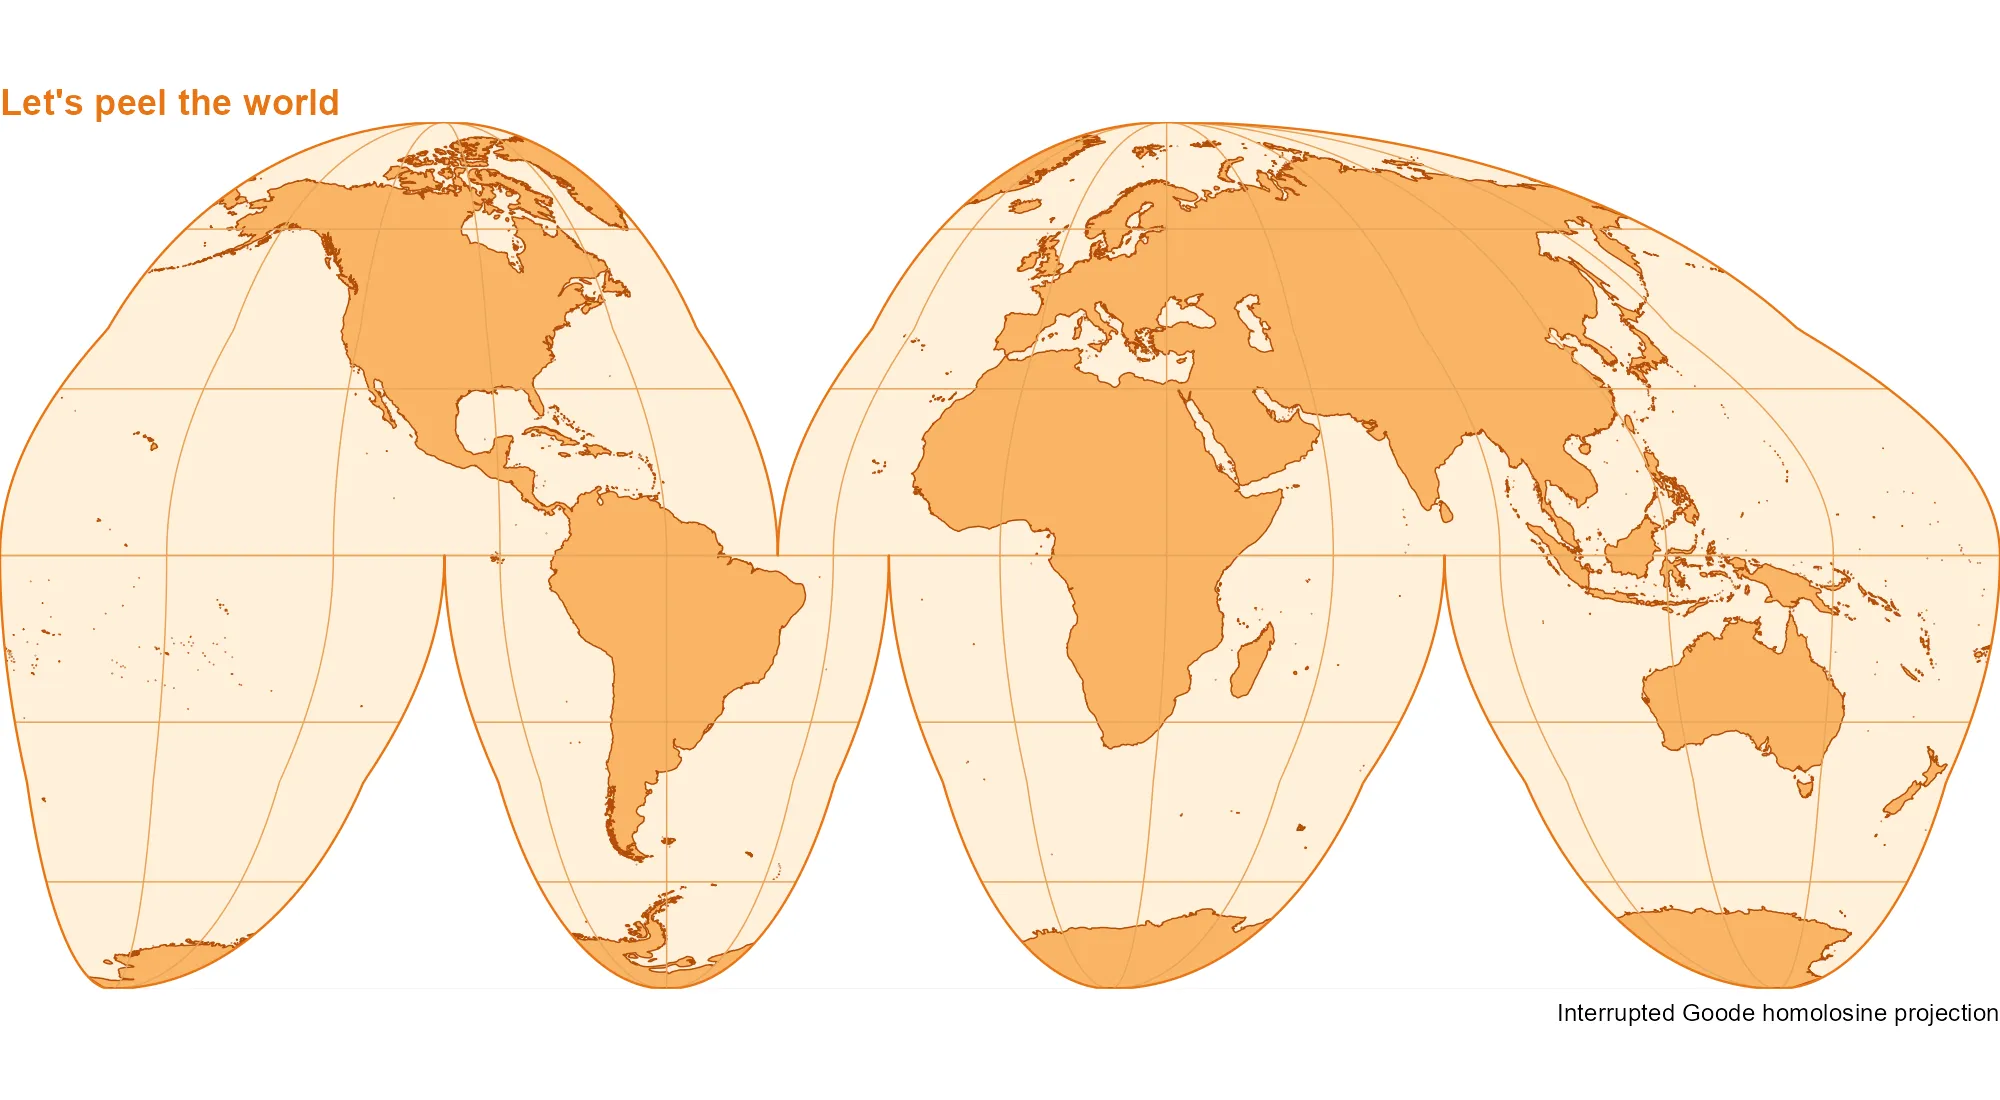
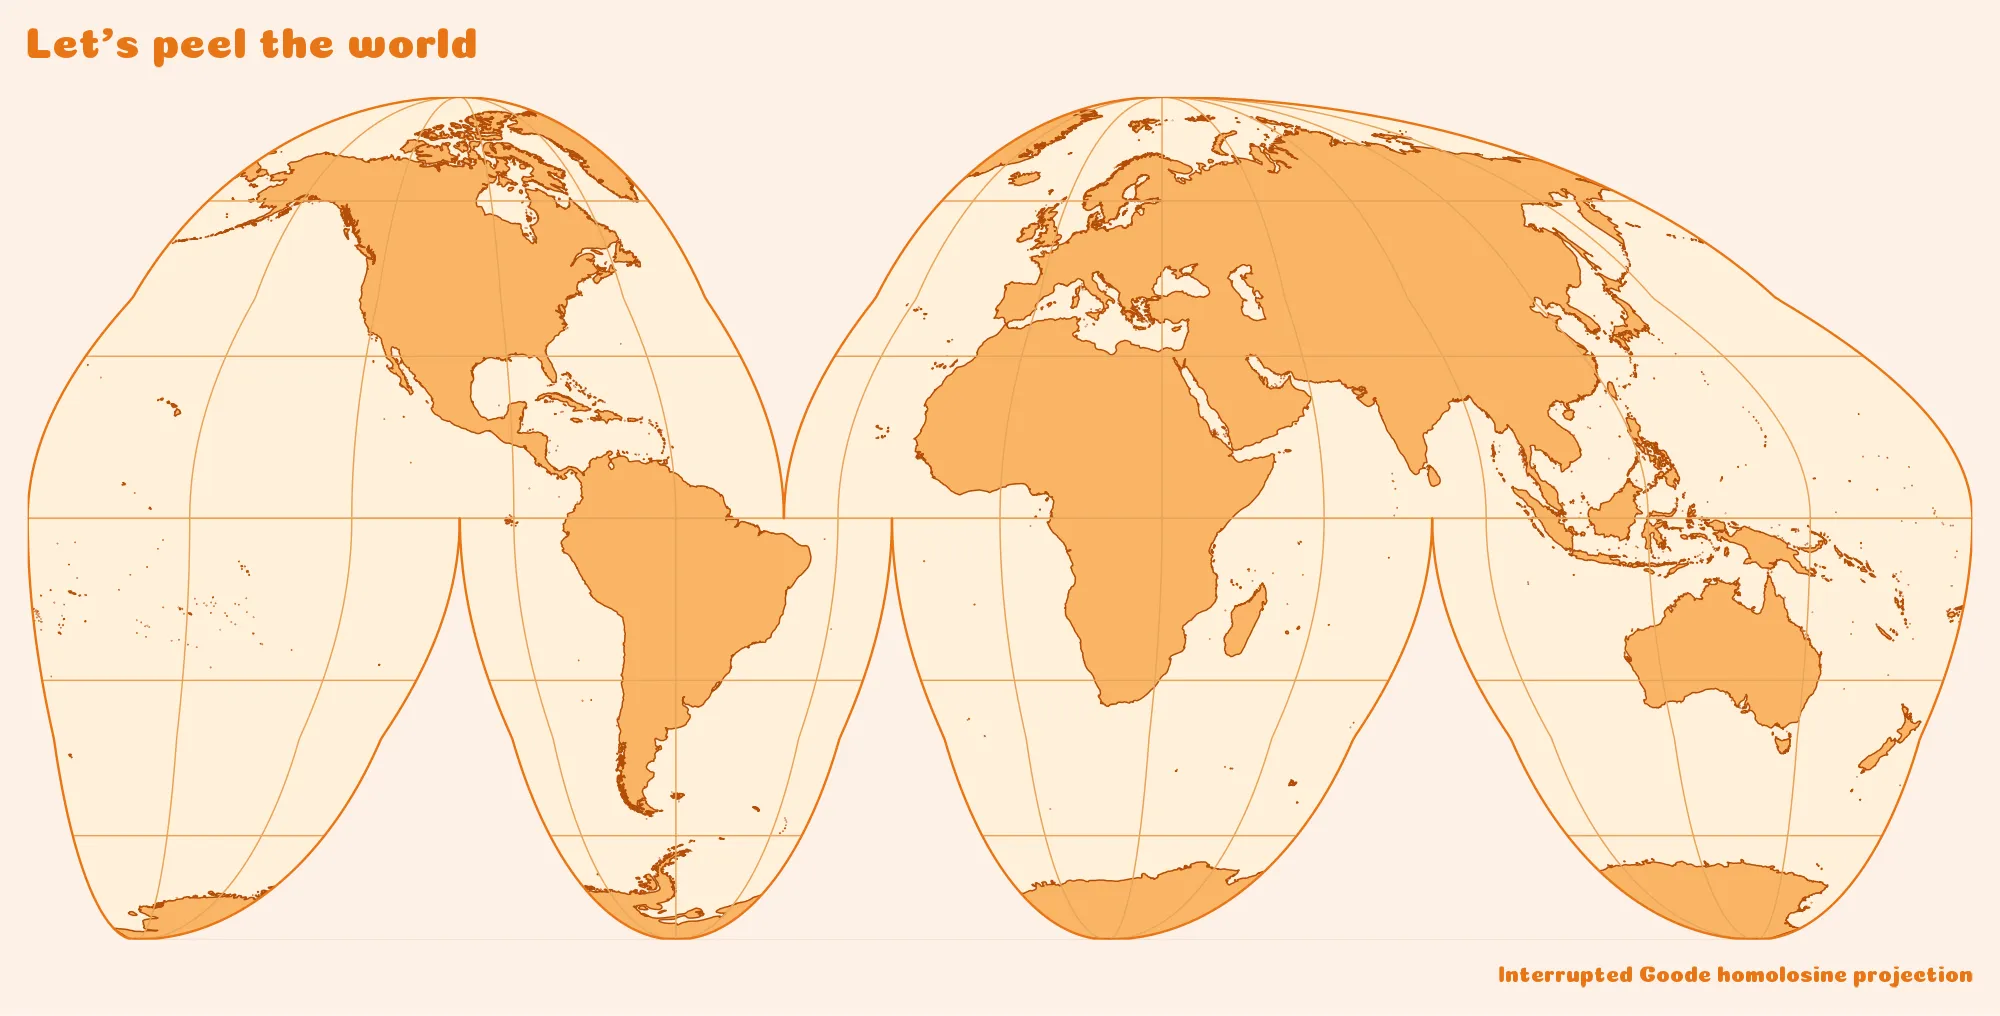
Fix img

diff --git a/collections/_posts/2026-10-24-orange-peel.md b/collections/_posts/2026-10-24-orange-peel.md
@@ -12,11 +12,14 @@ tags:
   - ggplot2
   - sf
   - giscoR
-header_img: https://dieghernan.github.io/assets/img/blog/202610_goode-map-1.webp
+header_img: "https://dieghernan.github.io/assets/img/blog/202610_goode-map-1.webp"
+og_image: "https://dieghernan.github.io/assets/img/blog/202610_goode-map-1.webp"
 og_image_width: 2000
-og_image_height: 1100
+og_image_height: 1016
 og_image_type: "image/webp"
-og_image_alt: "World map with orange coastlines and graticules in the interrupted Goode homolosine projection, resembling a flattened orange peel."
+og_image_alt: >-
+  World map with orange coastlines and graticules in the interrupted Goode
+  homolosine projection, resembling a flattened orange peel.
 output:
   md_document:
     variant: gfm
@@ -39,6 +42,7 @@ coastlines and draw the outline, following the cuts between the lobes.
 library(sf)
 library(ggplot2)
 library(giscoR)
+library(showtext)
 
 world <- gisco_get_coastal_lines(resolution = 10)
 goode_crs <- "+proj=igh"
@@ -93,11 +97,15 @@ and keeps the edges of our peel tidy.
 
 
 ``` r
+font_add_google("Coiny", family = "coiny")
+
+showtext_auto()
+
 ggplot() +
   geom_sf(data = outline, fill = "#FFF0D9", colour = NA) +
   geom_sf(data = world, fill = "#F9B566", colour = "#B34D08", linewidth = 0.25) +
   geom_sf(data = grat, fill = NA, colour = "#E8A45B", linewidth = 0.25) +
-  geom_sf(data = mask, fill = "white", colour = NA) +
+  geom_sf(data = mask, fill = "#fcf1e7", colour = NA) +
   geom_sf(data = outline, fill = NA, colour = "#E87516", linewidth = 0.4) +
   coord_sf(
     crs = goode_crs,
@@ -108,8 +116,17 @@ ggplot() +
   ) +
   theme_void() +
   theme(
-    plot.background = element_rect(fill = "white", colour = NA),
-    plot.title = element_text(color = "#E87516", face = "bold")
+    text = element_text(family = "coiny"),
+    plot.background = element_rect(fill = "#fcf1e7", colour = NA),
+    plot.title = element_text(
+      color = "#E87516", face = "bold", size = rel(3),
+      margin = margin(b = 10)
+    ),
+    plot.margin = margin(10, 10, 10, 10),
+    plot.caption = element_text(
+      color = "#E87516", size = rel(1.5),
+      margin = margin(t = 10)
+    )
   ) +
   labs(
     title = "Let's peel the world",
